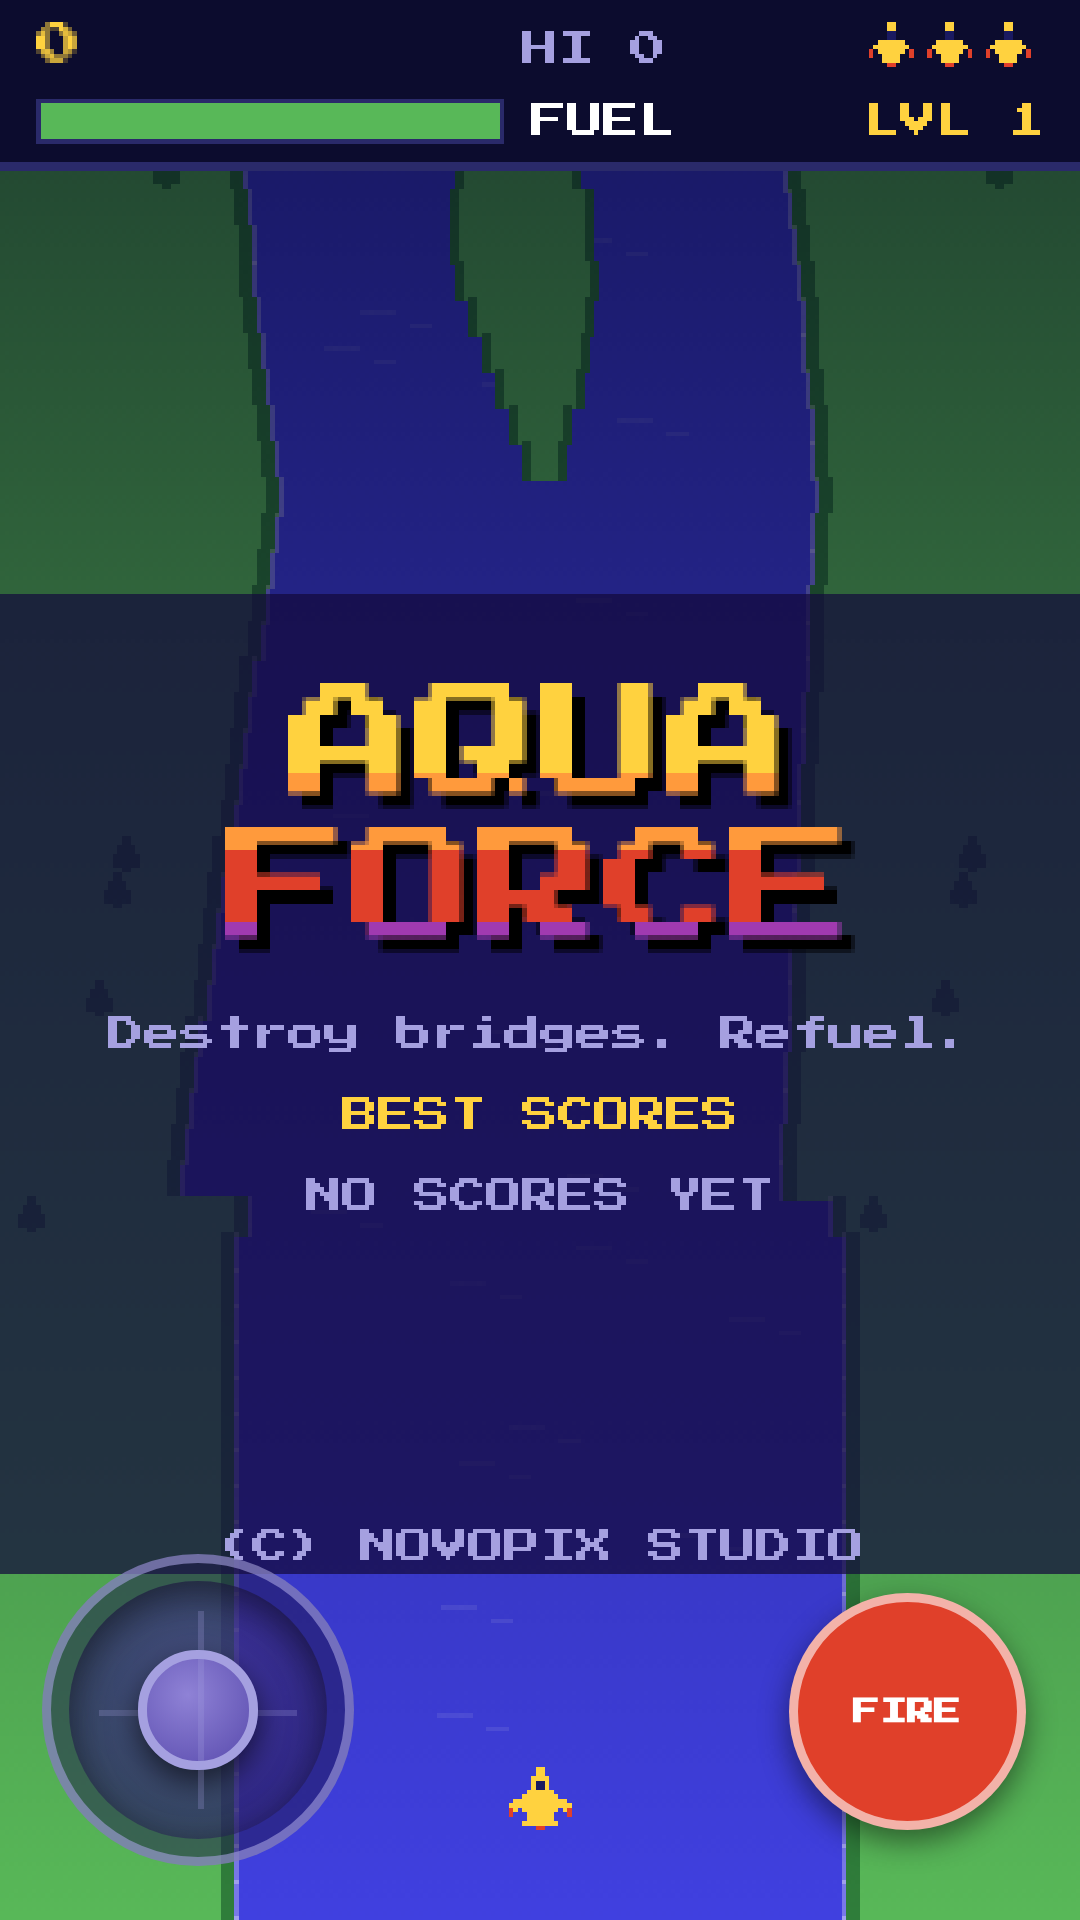
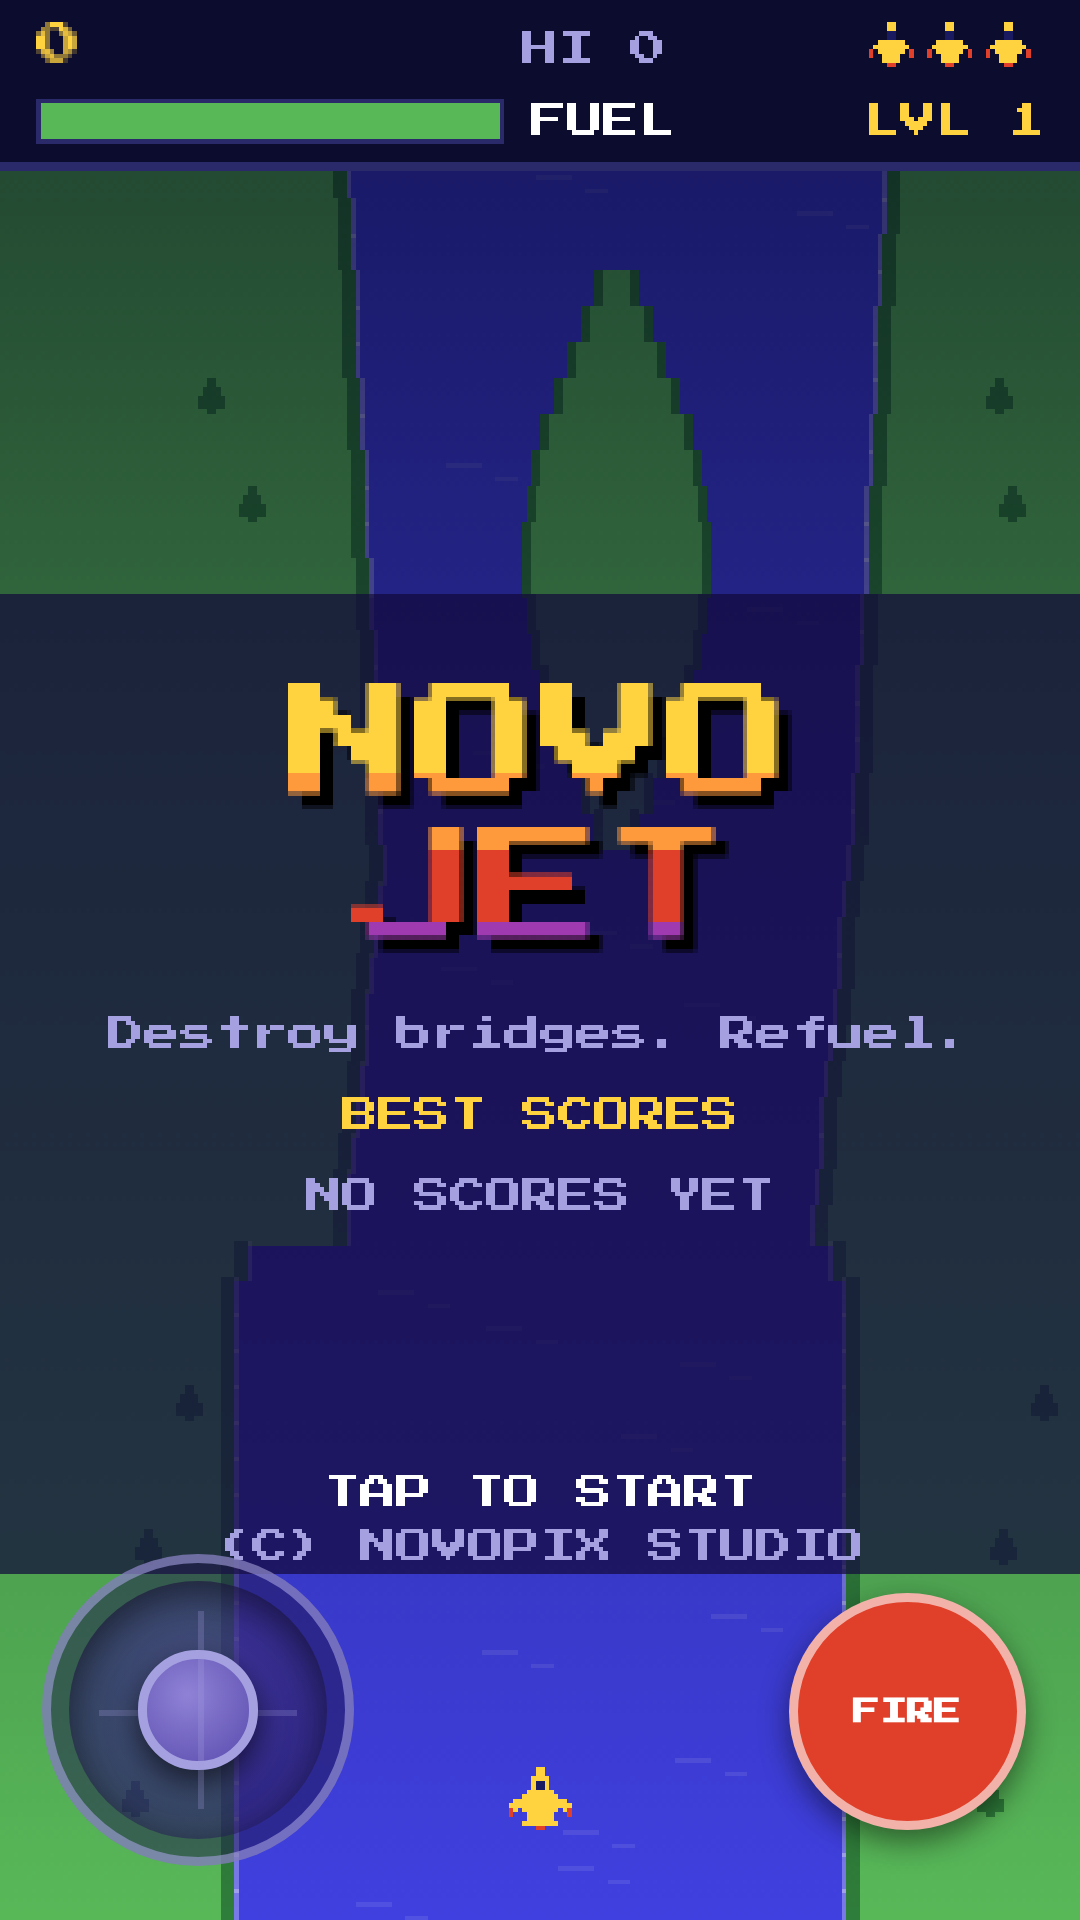
Rename game to NovoJet

diff --git a/aqua-force/index.html b/aqua-force/index.html
@@ -4,12 +4,12 @@
 <meta charset="utf-8">
 <meta name="viewport" content="width=device-width, initial-scale=1, viewport-fit=cover">
 <meta name="author" content="NovoPix Studio">
-<title>Aqua Force</title>
-<meta name="description" content="Aqua Force: retro arcade river jet game. Fly the river, collect fuel, shoot enemies and destroy bridges.">
+<title>NovoJet</title>
+<meta name="description" content="NovoJet: retro arcade river jet game. Fly the river, collect fuel, shoot enemies and destroy bridges.">
 <meta name="theme-color" content="#352879">
 <meta name="mobile-web-app-capable" content="yes">
 <meta name="apple-mobile-web-app-capable" content="yes">
-<meta name="apple-mobile-web-app-title" content="Aqua Force">
+<meta name="apple-mobile-web-app-title" content="NovoJet">
 <link rel="manifest" href="manifest.webmanifest">
 <link rel="icon" href="icon.svg" type="image/svg+xml">
 <link rel="apple-touch-icon" href="icon-180.png">
@@ -214,8 +214,8 @@ function scene(){
 function titleBox(){
  g.fillStyle='rgba(20,10,60,.72)';g.fillRect(0,14,W,218);
  g.font='28px "Press Start 2P",monospace';g.textAlign='center';
- g.fillStyle='#000';g.fillText('AQUA',W/2+3,65);g.fillText('FORCE',W/2+3,97);
- g.fillStyle=band(38,66,LOGO);g.fillText('AQUA',W/2,62);g.fillText('FORCE',W/2,94);
+ g.fillStyle='#000';g.fillText('NOVO',W/2+3,65);g.fillText('JET',W/2+3,97);
+ g.fillStyle=band(38,66,LOGO);g.fillText('NOVO',W/2,62);g.fillText('JET',W/2,94);
  g.font='8px "Press Start 2P",monospace';g.fillStyle='#a5a0e0';
  g.fillText(state==='over'?'GAME OVER  '+score:'Destroy bridges. Refuel.',W/2,116);
  g.fillStyle=C.y;g.fillText('BEST SCORES',W/2,134);

diff --git a/aqua-force/privacy.html b/aqua-force/privacy.html
@@ -1,8 +1,8 @@
 <!doctype html>
-<html lang="en"><head><meta charset="utf-8"><meta name="viewport" content="width=device-width,initial-scale=1"><title>Aqua Force: Privacy Policy</title>
+<html lang="en"><head><meta charset="utf-8"><meta name="viewport" content="width=device-width,initial-scale=1"><title>NovoJet: Privacy Policy</title>
 <meta name="robots" content="index,follow"><style>body{font:16px/1.6 system-ui,sans-serif;max-width:760px;margin:0 auto;padding:24px 16px;background:#241a5a;color:#e8e4ff}h1,h2{color:#ffd23f}a{color:#9fd8ff}hr{border:0;border-top:1px solid #6c5eb5;margin:32px 0}</style></head><body>
-<h1>Aqua Force: Privacy Policy</h1>
-<p><b>Last updated: 25 November 2026.</b> Aqua Force is a free arcade game made by NovoPix Studio (contact: <a href="mailto:contact@novopix.uk">contact@novopix.uk</a>).</p>
+<h1>NovoJet: Privacy Policy</h1>
+<p><b>Last updated: 25 November 2026.</b> NovoJet is a free arcade game made by NovoPix Studio (contact: <a href="mailto:contact@novopix.uk">contact@novopix.uk</a>).</p>
 <h2>What we collect</h2>
 <p>Nothing. The game has no accounts, no ads, no analytics, no in-app purchases and no tracking. It does not ask for your name, email, location, contacts, camera or microphone.</p>
 <h2>What is stored on your device</h2>

diff --git a/aqua-force/sw.js b/aqua-force/sw.js
@@ -1,4 +1,4 @@
-const CACHE='aquaforce-v11';
+const CACHE='aquaforce-v12';
 const FILES=['./','./index.html','./manifest.webmanifest','./icon.svg','./novopix-logo.svg','./icon-180.png','./icon-192.png','./icon-512.png','./icon-maskable-512.png','./privacy.html','./fonts/press-start-2p-latin.woff2'];
 self.addEventListener('install',e=>{e.waitUntil(caches.open(CACHE).then(c=>c.addAll(FILES)).then(()=>self.skipWaiting()))});
 self.addEventListener('activate',e=>{e.waitUntil(caches.keys().then(k=>Promise.all(k.filter(x=>x!==CACHE).map(x=>caches.delete(x)))).then(()=>self.clients.claim()))});

diff --git a/aqua-force/store/LISTING.md b/aqua-force/store/LISTING.md
@@ -1,4 +1,4 @@
-# Aqua Force: Google Play listing (English only)
+# NovoJet: Google Play listing (English only)
 
 Package name (propozycja): `uk.novopix.aquaforce`
 Prywatność: https://novopix.uk/aqua-force/privacy.html
@@ -6,7 +6,7 @@ Gra online: https://novopix.uk/aqua-force/
 Kontakt: contact@novopix.uk
 
 ## EN
-**Title (max 30):** Aqua Force
+**Title (max 30):** NovoJet
 **Short description (max 80):** Retro arcade jet game: fly the river, grab fuel, blow up bridges.
 **Full description (max 4000):**
 Fly low over the river in this fast retro arcade shooter. Dodge islands and banks, shoot ships, helicopters, jets, balloons and tanks, and keep an eye on your fuel gauge.
@@ -34,7 +34,7 @@ Features
 - Data safety: gra nie zbiera ani nie udostępnia żadnych danych (zaznacz „No data collected”). Wyniki zapisują się tylko lokalnie.
 - Ocena treści (IARC): łagodna, rysunkowa przemoc fantastyczna (strzelanie do statków i samolotów), brak krwi, brak języka, brak hazardu. Spodziewane PEGI 3 / ESRB Everyone, ale wynik daje kwestionariusz.
 - Grupa docelowa: sugerujemy 13+ albo „wszyscy”, bez „Designed for Families”, żeby uniknąć dodatkowych wymagań.
-- Znak towarowy: nie używać w opisie ani tagach nazw cudzych gier (np. River Raid). Nazwa „Aqua Force” i grafika są własne.
+- Znak towarowy: nie używać w opisie ani tagach nazw cudzych gier (np. River Raid). Nazwa „NovoJet” i grafika są własne.
 
 ## Materiały w tym folderze
 - `icon-512.png` (ikona 512×512), `feature-graphic-1024x500.png`
